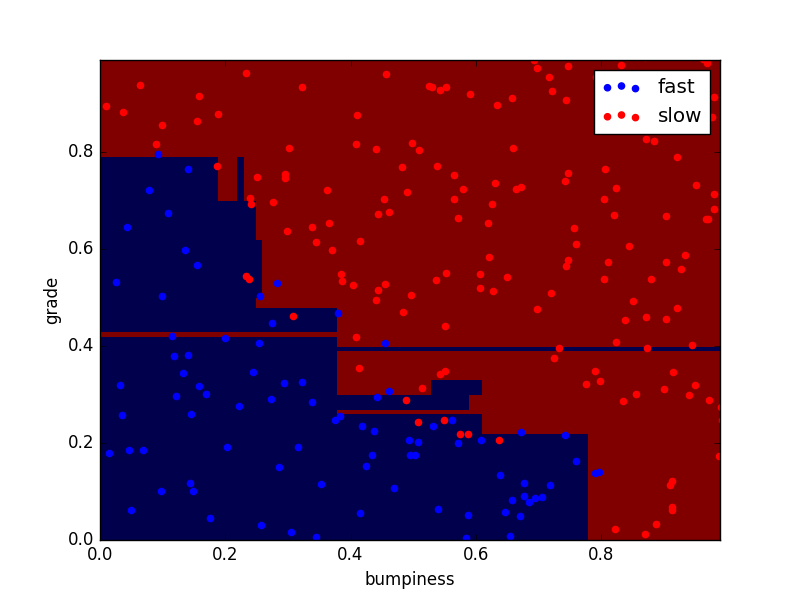
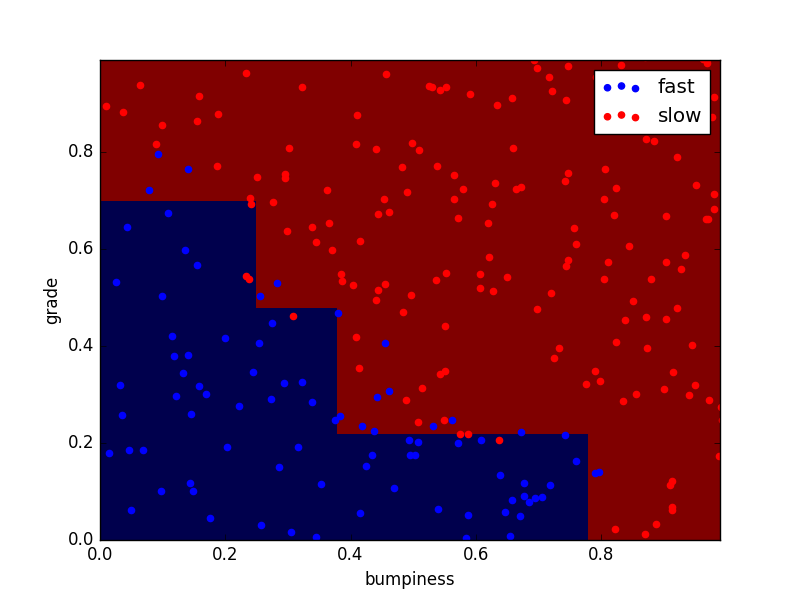
alter code

diff --git a/decision_trees/dt_main.py b/decision_trees/dt_main.py
@@ -9,15 +9,11 @@ from terrain_data.prep_terrain_data import makeTerrainData
 
 features_train, labels_train, features_test, labels_test = makeTerrainData()
 
-### the classify() function in classifyDT is where the magic
-### happens--fill in this function in the file 'classifyDT.py'!
 clf = classify(features_train, labels_train)
 
 predict = clf.predict(features_test)
 
 print calculate_accuracy(labels_test, predict)
-
-#### grader code, do not modify below this line
 
 prettyPicture(clf, features_test, labels_test)
 output_image("test.png", "png", open("test.png", "rb").read())

diff --git a/decision_trees/classify_dt.py b/decision_trees/classify_dt.py
@@ -1,7 +1,6 @@
 def classify(features_train, labels_train):
-    ### your code goes here--should return a trained decision tree classifer
-
     from sklearn import tree
-    clf = tree.DecisionTreeClassifier()
+    # clf = tree.DecisionTreeClassifier()
+    clf = tree.DecisionTreeClassifier(min_samples_split=50)
     clf = clf.fit(features_train, labels_train)
     return clf
